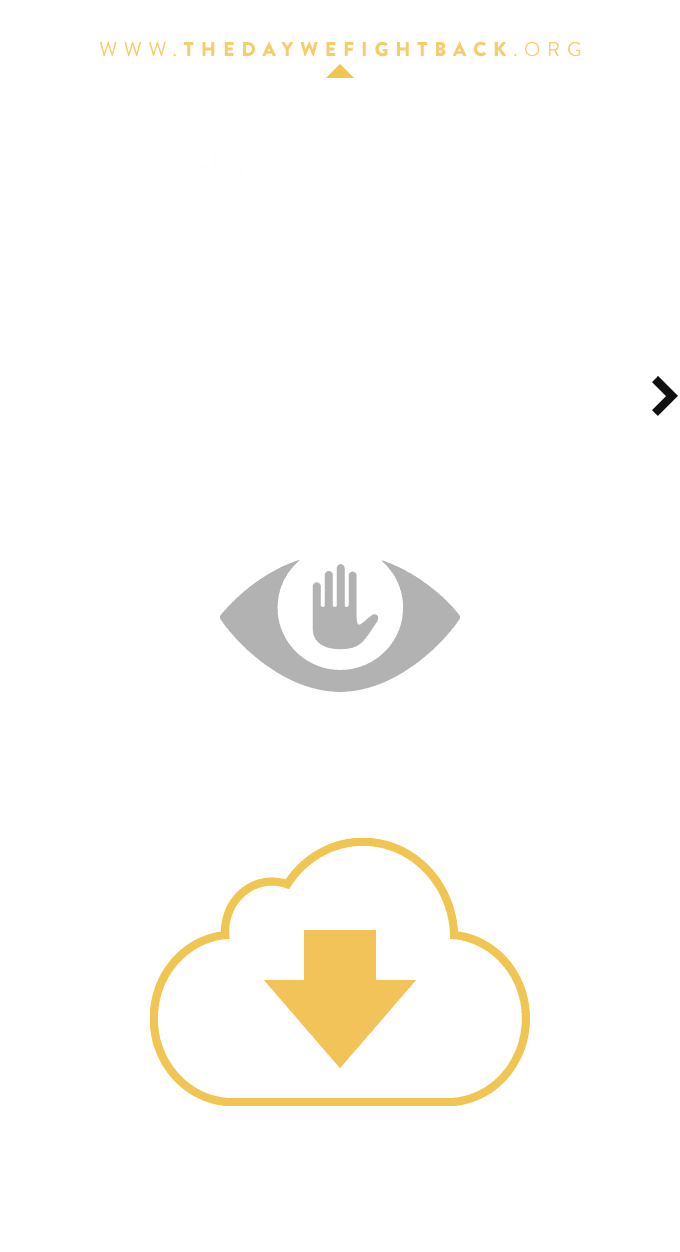
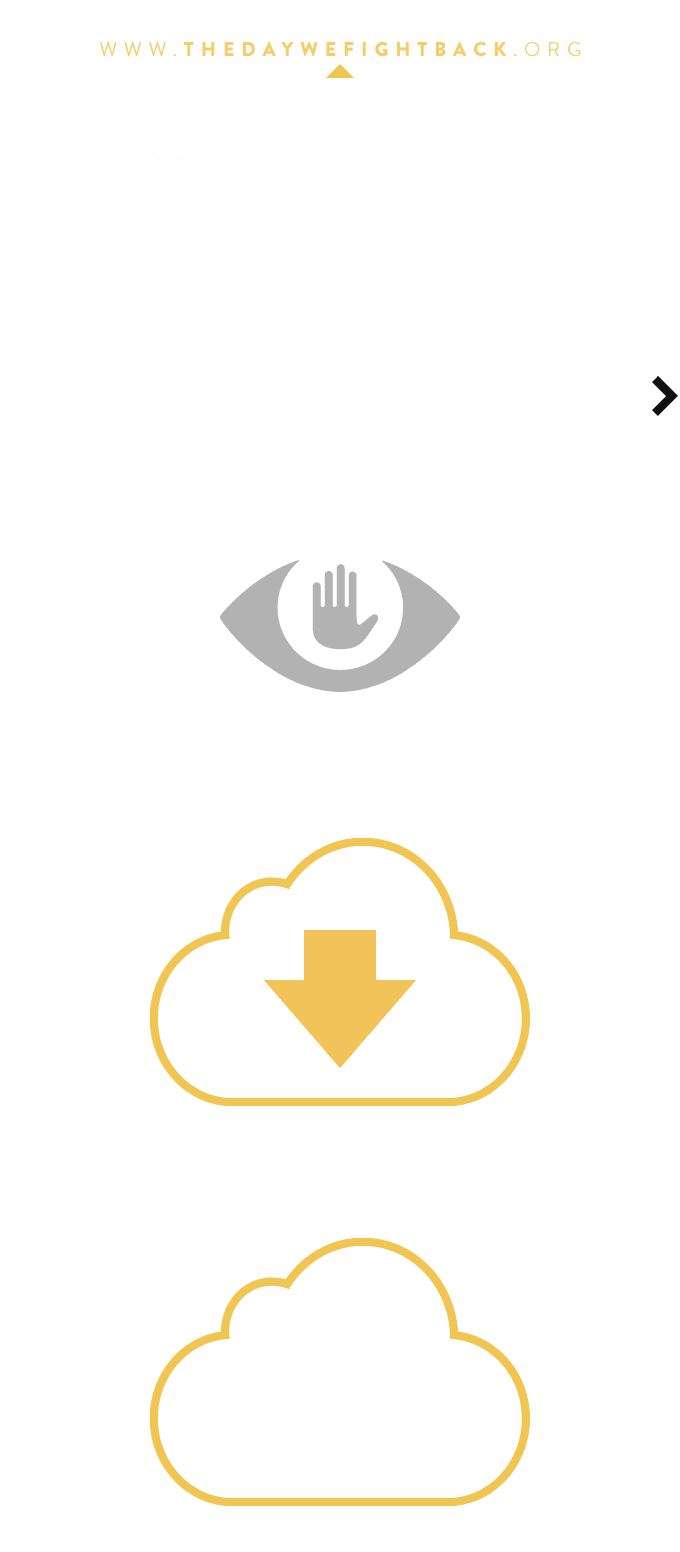
Downloading progress fix

diff --git a/css/style.css b/css/style.css
@@ -14608,8 +14608,14 @@ filter:progid:DXImageTransform.Microsoft.Alpha(opacity=90);
 	background-position: -6px -408px;
 	background-repeat: no-repeat;
 }
+.campaign .downloading .new-download-icon {
+	background-position: -6px -608px;
+}
 .campaign .new-download-red-button {
 	background-color: #F1C359;
+}
+.campaign .new-download-icon div {
+	color:#f0c55c;
 }
 .campaign .new-download-red-button .new-download-button-txt1, .campaign .new-download-red-button .new-download-button-txt2 {
 	color: #333333;
@@ -14678,7 +14684,7 @@ filter:progid:DXImageTransform.Microsoft.Alpha(opacity=90);
 .campaign-close-button:hover {
 	background-position: right -369px;
 }
-.logged-in-user  @media only screen and (max-width: 1593px) {
+@media only screen and (max-width: 1593px) {
 .adv .download-mid-centered-block {
  min-width: 648px;
 }
